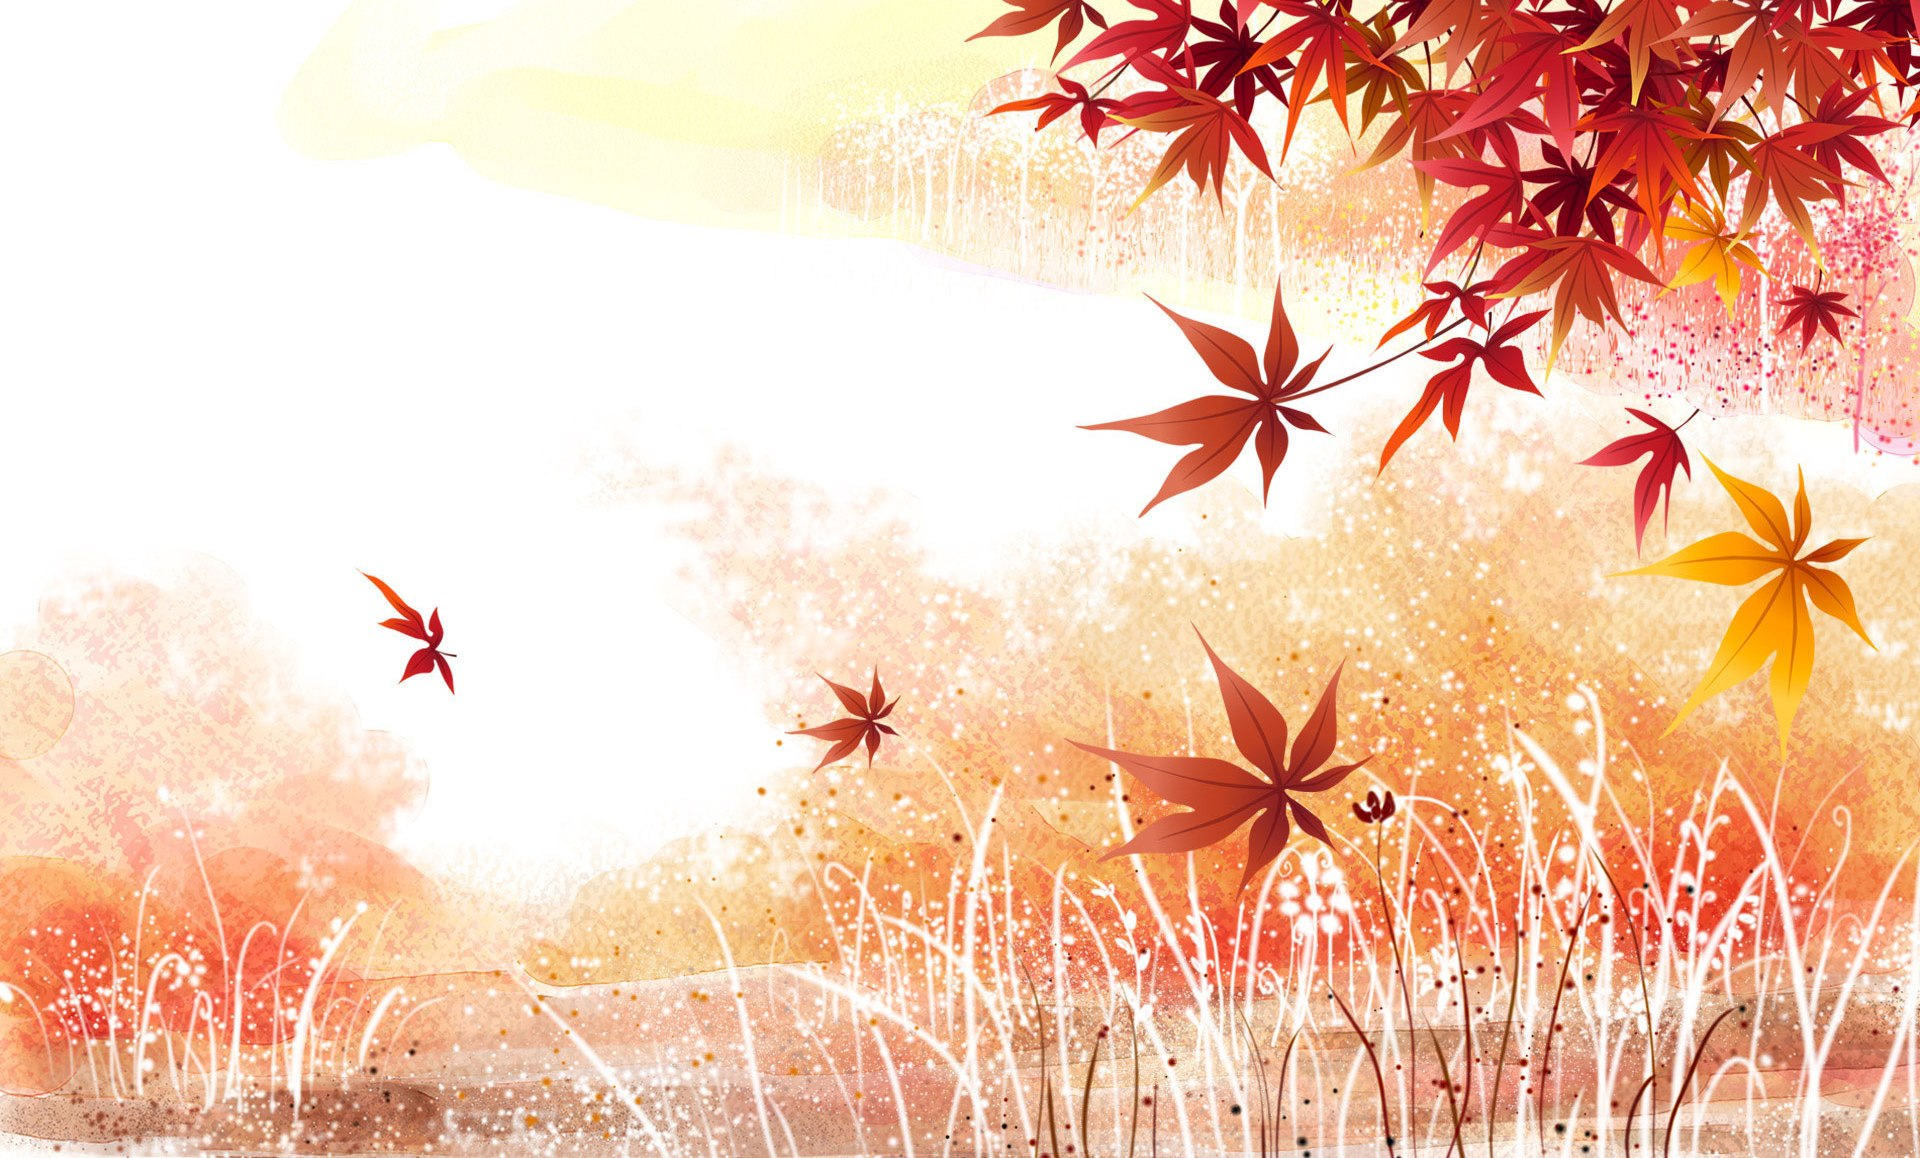
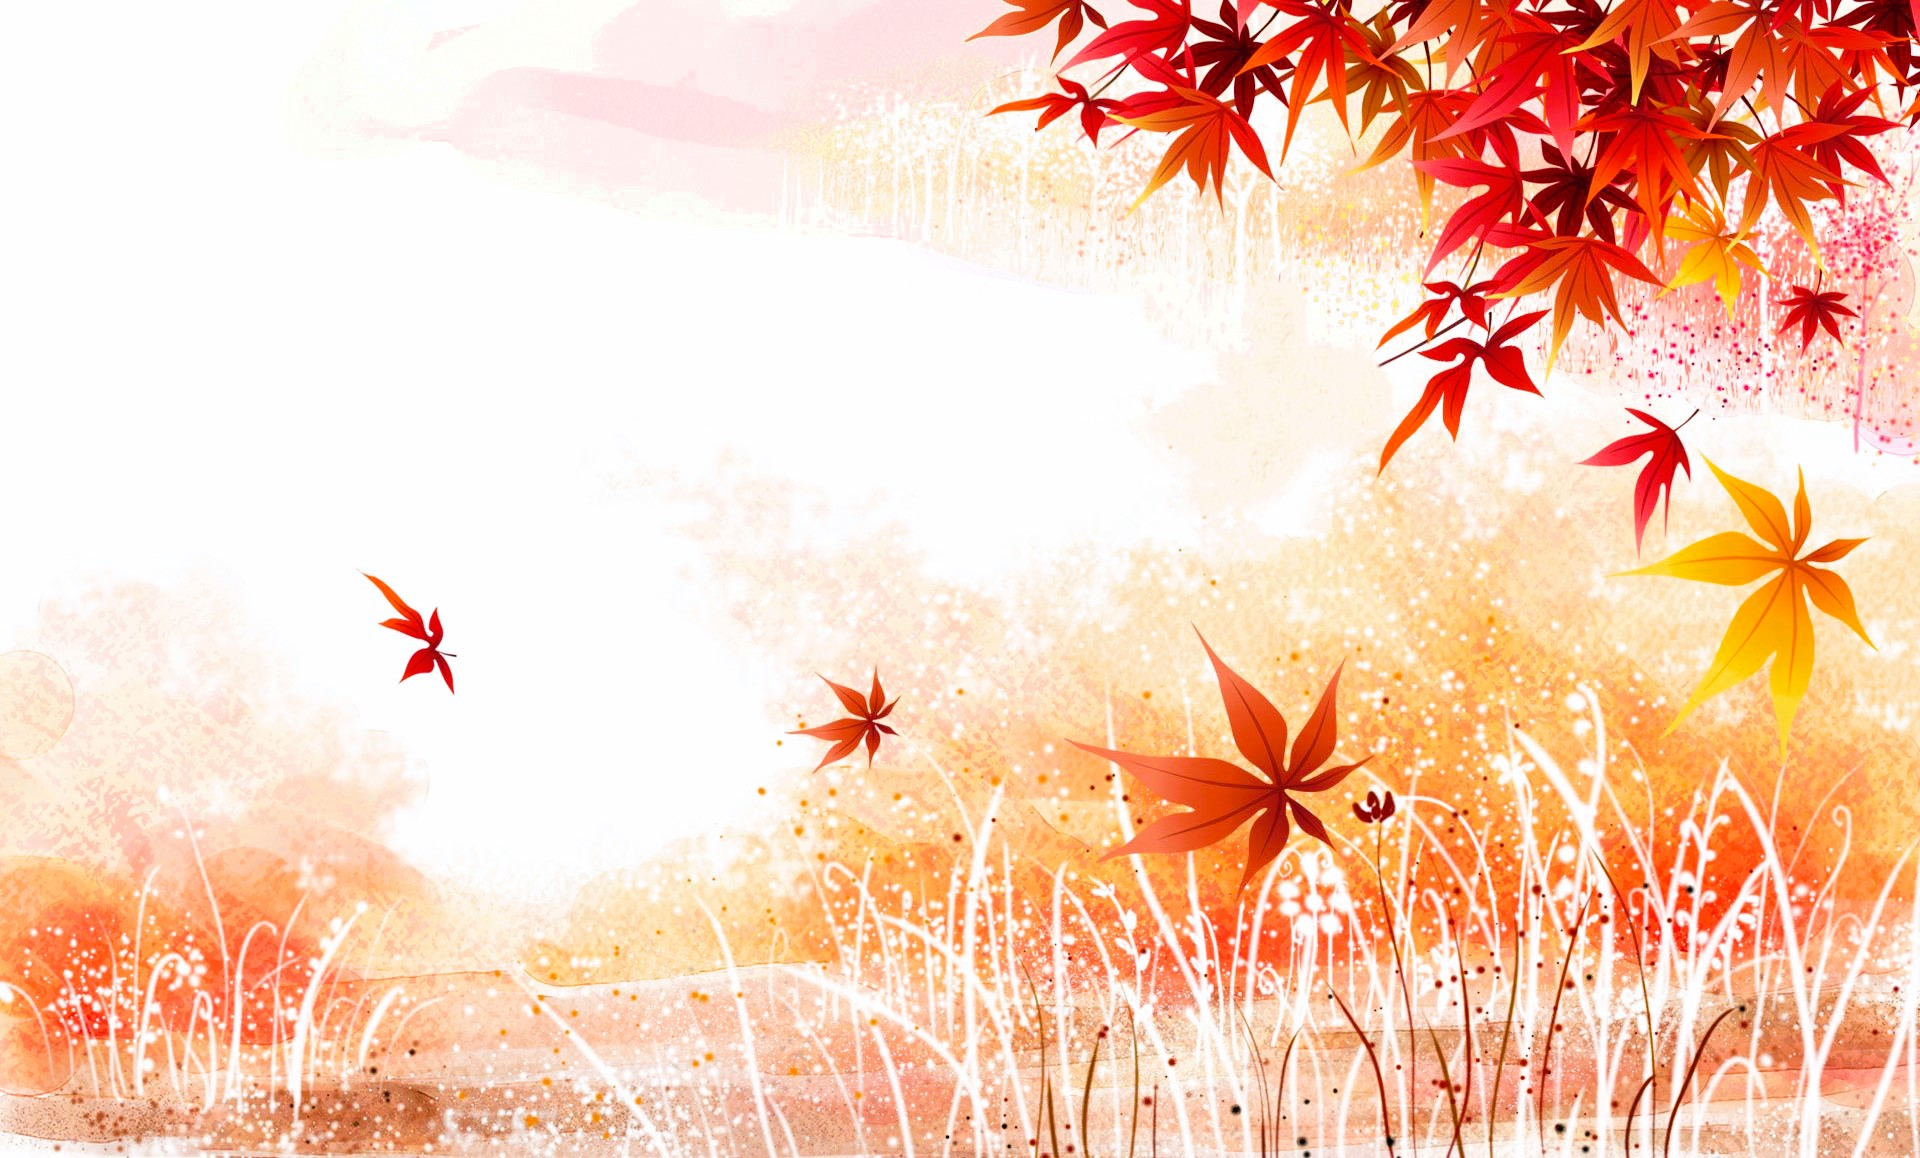
Minor changes were done to home page. Self-picture was changed in About page

diff --git a/styles/portfolio.css b/styles/portfolio.css
@@ -34,17 +34,19 @@ p {
   font-size: 18px;
   color: var(--branding-color);
 }
-
+.index-body {
+  background-color: var(--secondary-color);
+  background-image: url("/images/leaves.jpg");
+  background-repeat: no-repeat;
+  background-size: cover;
+}
 .active {
   text-shadow: rgb(254, 233, 131) 1px 0 10px;
 }
 .hero {
-  background-color: var(--secondary-color);
-  background-image: url("/images/leaves.jpg");
-
   text-align: center;
-  padding-top: 20px;
-  padding: 100px 20px;
+  margin: 0 auto;
+  padding: 200px 20px;
 }
 
 .hero p {
@@ -58,6 +60,8 @@ p {
   font-size: 96px;
   font-weight: bold;
   margin-bottom: 20px;
+  text-shadow: 10px 2px 15px #fff;
+  /* -webkit-text-stroke: 2px #fff; */
 }
 
 .hero h2 {
@@ -65,6 +69,7 @@ p {
   font-size: 25px;
   font-weight: bold;
   margin-bottom: 50px;
+  text-shadow: 10px 2px 15px #fff;
 }
 
 .btn-branding,
@@ -138,5 +143,5 @@ p {
   font-size: 18px;
 }
 .about-paragraph {
-  margin-top: 150px;
+  margin-top: 100px;
 }

diff --git a/index.html b/index.html
@@ -34,7 +34,7 @@
       crossorigin="anonymous"
     ></script>
   </head>
-  <body>
+  <body class="index-body">
     <nav
       class="navbar navbar-light navbar-expand-lg"
       style="background-color: #8c3333"
@@ -78,9 +78,7 @@
       </div>
     </nav>
     <div class="hero shadow-md">
-      <p>I am</p>
-      <h1 class="bolder">Reham Abdelaal</h1>
-
+      <h1 class="bolder mt-5">Reham Abdelaal</h1>
       <h2>Front-end developer from Guelph,Canada</h2>
       <a href="#"><button class="btn btn-branding">Connect With Me</button></a>
     </div>

diff --git a/about.html b/about.html
@@ -108,7 +108,7 @@
         <div class="col-md-4">
           <img
             class="img-fluid self-pic mt-5"
-            src="/images/self-pic.jpg"
+            src="/images/self-pic-2.jpg"
             alt="myself in garden"
           />
         </div>
